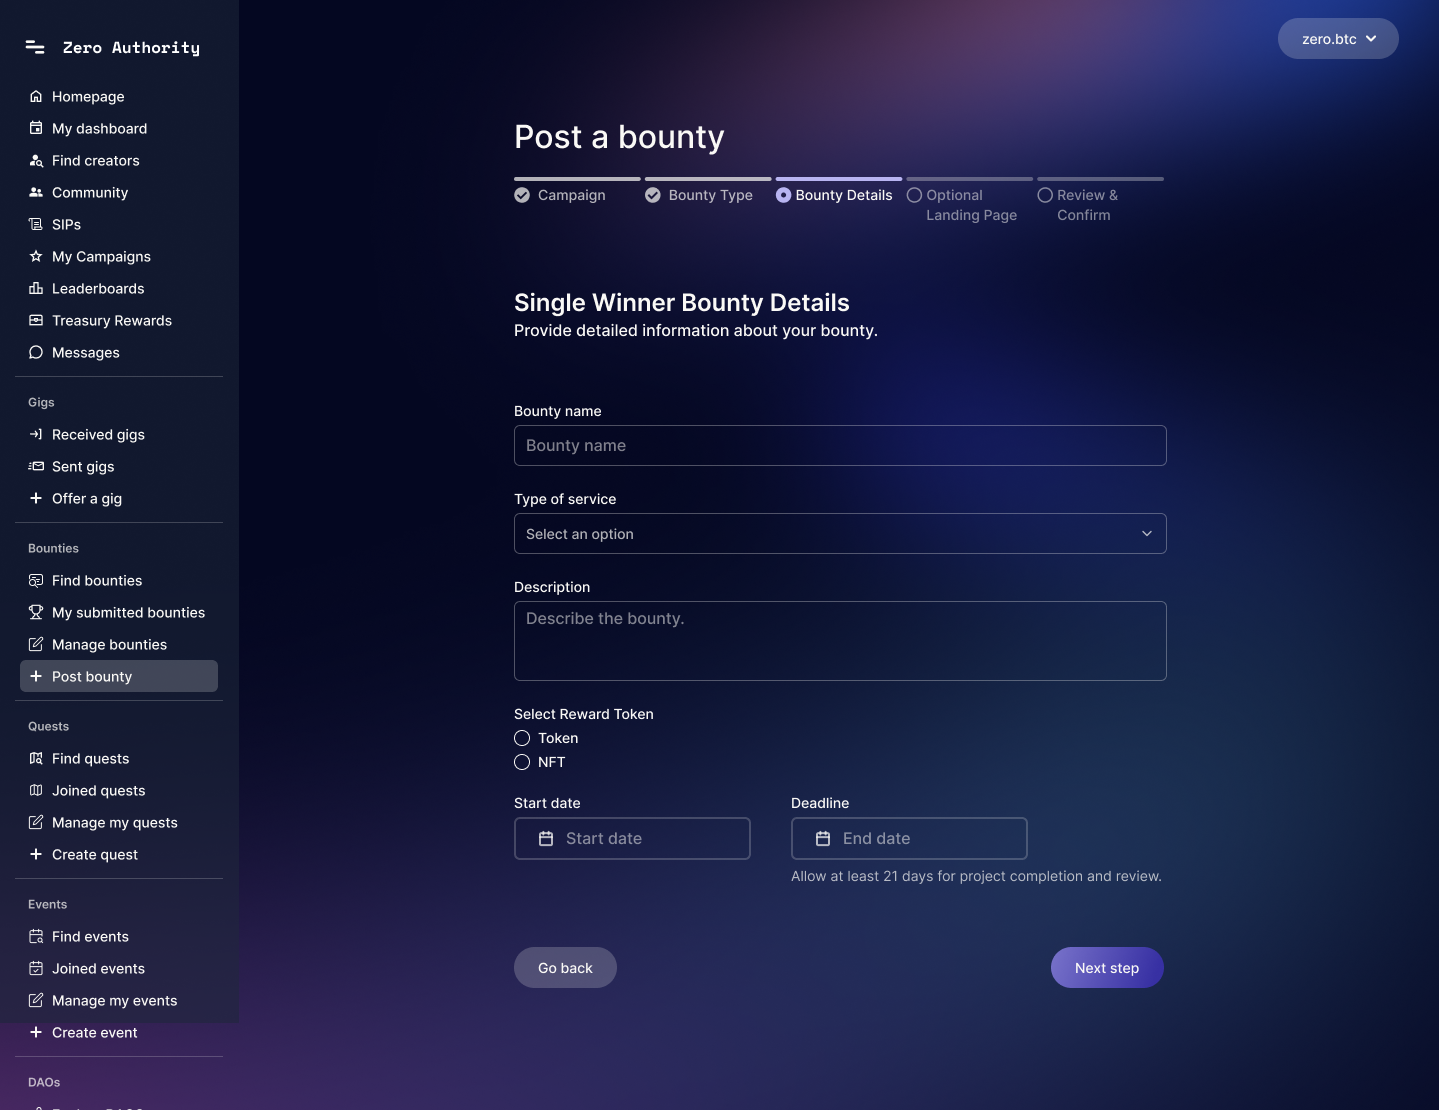
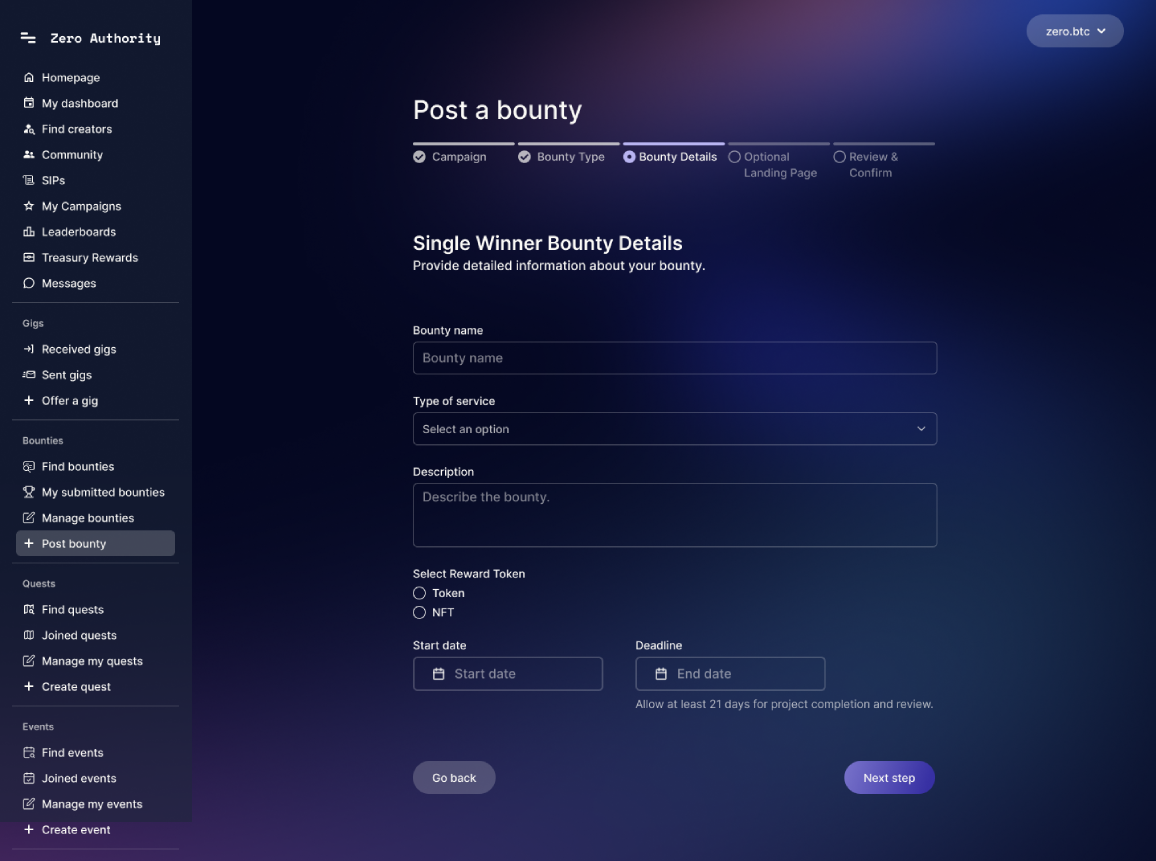
Case study updates

diff --git a/src/app/page.tsx b/src/app/page.tsx
@@ -37,7 +37,7 @@ export default function HomePage() {
     <main className="flex min-h-full flex-col bg-[var(--color-bg)]">
       {/* Hero */}
       <FadeIn>
-        <section className="mx-auto flex w-full max-w-7xl flex-col px-6 pt-[120px] pb-[60px] md:flex-row md:items-center md:justify-between md:gap-12 md:px-12 md:pt-[150px] md:pb-[100px] lg:px-20 lg:pt-[180px] lg:pb-[120px]">
+        <section className="mx-auto flex w-full max-w-7xl flex-col px-6 pt-[120px] pb-[60px] md:flex-row md:items-center md:justify-between md:gap-12 md:px-12 md:pt-[150px] md:pb-[100px] lg:px-20 lg:pt-[200px] lg:pb-[140px]">
           <div className="flex flex-col gap-5 md:gap-6">
             <Image
               src="/images/selfie.jpeg"
@@ -84,7 +84,7 @@ export default function HomePage() {
 
       {/* Selected Work — Thumbnail Grid */}
       <div className="bg-white">
-      <section id="work" className="mx-auto w-full max-w-7xl px-6 py-[50px] md:px-12 md:py-[80px] lg:px-20 lg:py-[100px]">
+      <section id="work" className="mx-auto w-full max-w-7xl px-6 py-[50px] md:px-12 md:py-[90px] lg:px-20 lg:py-[160px]">
         <FadeIn>
           <h2 className="font-heading mb-8 text-[28px] font-semibold text-[var(--color-text)] md:mb-12 md:text-[34px] lg:text-[40px] text-center md:text-left">
             Selected Work
@@ -104,7 +104,7 @@ export default function HomePage() {
               />
             ))}
           </div>
-          <div className="mt-8 text-center md:text-left">
+          <div className="mt-12 text-center md:text-left">
             <Link
               href="/work"
               className="font-body text-[15px] font-medium text-[var(--color-link)] hover:underline text-center md:text-left"
@@ -116,58 +116,21 @@ export default function HomePage() {
       </section>
       </div>
 
-      {/* Testimonials */}
-      <section id="testimonials" className="mx-auto flex w-full max-w-7xl flex-col gap-8 px-6 py-[50px] md:gap-12 md:px-12 md:py-[60px] lg:px-20 lg:py-[80px]">
-        <FadeIn>
-          <h2 className="font-heading text-[28px] font-semibold text-[var(--color-text)] md:text-[34px] lg:text-[40px]">
-            Testimonials
-          </h2>
-        </FadeIn>
-
-        <FadeIn>
-          <Testimonial
-            quote={`"Ayden Springer is the kind of Full Stack Developer every team dreams of having. His dedication to the craft and consistent success in delivering exceptional digital products makes him a valuable asset. I highly recommend Ayden Springer for any tech project."`}
-            name="Rocky Nguyen"
-            image={rockyImg}
-            link="https://www.linkedin.com/in/rockynhatnguyen/"
-            role="Engineering Manager at Elysium Health"
-          />
-        </FadeIn>
-        <FadeIn>
-          <Testimonial
-            quote={`"If you need a Dev who talks with their keyboard instead of prolonging the Zoom call, Ayden will kick out your project faster than 90% of the over-confident 'code crafters' out there. Ayden gets it DONE."`}
-            name="Michael Jagdeo"
-            image={michaelImg}
-            link="https://www.linkedin.com/in/jagdeoholdings/"
-            role="Recruiter at Delmi Training"
-          />
-        </FadeIn>
-        <FadeIn>
-          <Testimonial
-            quote={`"Ayden is an amazingly talented developer. His contribution to the project Avalanche from The New Dev Order was crucial to completing the most difficult task that saw the team home. He is gonna be the best find for any Hiring Manager."`}
-            name="Manish Andankar"
-            image={manishImg}
-            link="https://www.linkedin.com/in/manishandankar/"
-            role="Founder & CEO at Worthum"
-          />
-        </FadeIn>
-      </section>
-
       {/* Background */}
-      <div className="bg-white">
+      <div>
       <FadeIn>
-        <section id="background" className="mx-auto flex w-full max-w-7xl flex-col gap-8 px-6 py-[50px] md:gap-10 md:px-12 md:py-[60px] lg:px-20 lg:py-[80px]">
+        <section id="background" className="mx-auto flex w-full max-w-7xl flex-col gap-10 px-6 py-[50px] md:gap-16 md:px-12 md:py-[60px] lg:px-20 lg:py-[80px]">
           <h2 className="font-heading text-[28px] font-semibold text-[var(--color-text)] md:text-[34px] lg:text-[40px]">
             Background
           </h2>
 
-          <div className="flex max-w-[800px] flex-col gap-20 mt-12">
+          <div className="flex max-w-[800px] flex-col gap-20">
             <div className="flex flex-col gap-4">
               <h3 className="font-heading text-[22px] font-semibold text-[var(--color-text)]">
                 Everplast
               </h3>
               <p className="font-body text-[16px] leading-[1.7] text-[var(--color-text)]">
-                I started building software in high school, teaching myself GDScript and the Godot engine to build Everplast: <Highlight>a full-length action-adventure game that I shipped to Steam at 16 years old</Highlight>. Eight months of solo development: four worlds, five weapons, boss AI, a rank-based progression system, a full save system, and the entire Steam publishing pipeline. <Highlight>So what happens when you scope a project way too big and have to figure out how to ship it anyway.</Highlight>
+                I started building software in high school, teaching myself GDScript and the Godot engine to build Everplast: <Highlight>a full-length action-adventure game that I shipped to Steam at 16 years old</Highlight>. Eight months of solo development: four worlds, five weapons, boss AI, a rank-based progression system, a full save system, and the entire Steam publishing pipeline. <Highlight>So, what happens when you scope a project way too big and have to figure out how to ship it anyway?</Highlight>
               </p>
 
               <p className="font-body text-[16px] leading-[1.7] text-[var(--color-text)]">
@@ -221,6 +184,48 @@ export default function HomePage() {
         </section>
       </FadeIn>
       </div>
+
+      {/* Testimonials */}
+      <div className="bg-white ">
+      <section id="testimonials" className="mx-auto flex w-full max-w-7xl flex-col gap-8 px-6 py-[50px] md:gap-12 md:px-12 md:py-[60px] lg:px-20 lg:py-[90px]">
+        <FadeIn>
+          <h2 className="font-heading text-[28px] font-semibold text-[var(--color-text)] md:text-[34px] lg:text-[40px]">
+            Testimonials
+          </h2>
+        </FadeIn>
+
+        <FadeIn>
+          <Testimonial
+            quote={`"Ayden Springer is the kind of Full Stack Developer every team dreams of having. His dedication to the craft and consistent success in delivering exceptional digital products makes him a valuable asset. I highly recommend Ayden Springer for any tech project."`}
+            name="Rocky Nguyen"
+            image={rockyImg}
+            link="https://www.linkedin.com/in/rockynhatnguyen/"
+            role="Engineering Manager at Elysium Health"
+          />
+        </FadeIn>
+        <FadeIn>
+          <Testimonial
+            quote={`"If you need a Dev who talks with their keyboard instead of prolonging the Zoom call, Ayden will kick out your project faster than 90% of the over-confident 'code crafters' out there. Ayden gets it DONE."`}
+            name="Michael Jagdeo"
+            image={michaelImg}
+            link="https://www.linkedin.com/in/jagdeoholdings/"
+            role="Recruiter at Delmi Training"
+          />
+        </FadeIn>
+        <FadeIn>
+          <Testimonial
+            quote={`"Ayden is an amazingly talented developer. His contribution to the project Avalanche from The New Dev Order was crucial to completing the most difficult task that saw the team home. He is gonna be the best find for any Hiring Manager."`}
+            name="Manish Andankar"
+            image={manishImg}
+            link="https://www.linkedin.com/in/manishandankar/"
+            role="Founder & CEO at Worthum"
+          />
+        </FadeIn>
+      </section>
+      </div>
+
+
+
     </main>
   )
 }

diff --git a/src/components/ContactFooter.tsx b/src/components/ContactFooter.tsx
@@ -1,4 +1,4 @@
-import { ArrowUpRightFromSquareIcon } from "lucide-react"
+import { ArrowUpRightFromSquareIcon, FileIcon, GithubIcon, LinkedinIcon, MailIcon } from "lucide-react"
 import Link from "next/link"
 
 export function ContactFooter() {
@@ -10,8 +10,9 @@ export function ContactFooter() {
       <div className="font-body flex flex-col gap-4">
         <a
           href="mailto:23aspringer3@gmail.com"
-          className="text-[16px] text-[var(--color-link)] hover:underline"
+          className="text-[16px] text-[var(--color-link)] hover:underline flex items-center gap-2"
         >
+          <MailIcon size={16} />
           23aspringer3@gmail.com
         </a>
         <Link
@@ -20,6 +21,7 @@ export function ContactFooter() {
           rel="noopener noreferrer"
           className="text-[16px] text-[var(--color-link)] hover:underline flex items-center gap-2"
         >
+          <GithubIcon size={16} />
           github.com/aydendevnova <ArrowUpRightFromSquareIcon size={14} />
         </Link>
         <Link
@@ -28,6 +30,7 @@ export function ContactFooter() {
           rel="noopener noreferrer"
           className="text-[16px] text-[var(--color-link)] hover:underline flex items-center gap-2"
         >
+          <LinkedinIcon size={16} />
           linkedin.com/in/ayden-springer <ArrowUpRightFromSquareIcon size={14} />
         </Link>
         <Link
@@ -36,6 +39,7 @@ export function ContactFooter() {
           rel="noopener noreferrer"
           className="mt-4 flex items-center gap-2 text-[16px] font-medium text-[var(--color-link)] hover:underline"
         >
+          <FileIcon size={16} />
           View Resume <ArrowUpRightFromSquareIcon size={14} />
         </Link>
       </div>

diff --git a/src/components/mdx/ProjectImage.tsx b/src/components/mdx/ProjectImage.tsx
@@ -39,7 +39,7 @@ export function ProjectImage({
           </span>
         </div>
         {caption && (
-          <figcaption className="font-body mt-3 text-center text-sm text-[var(--color-muted)]">
+          <figcaption className="font-body mt-3 text-left text-sm text-[var(--color-muted)]">
             {caption}
           </figcaption>
         )}
@@ -57,12 +57,12 @@ export function ProjectImage({
           alt={alt}
           width={width}
           height={height}
-          className={`h-auto w-full in-[.image-grid-uniform]:absolute in-[.image-grid-uniform]:inset-0 in-[.image-grid-uniform]:h-full in-[.image-grid-uniform]:object-cover${pixelClass}`}
+          className={`h-auto max-h-[500px] w-full object-contain object-left in-[.image-grid-uniform]:absolute in-[.image-grid-uniform]:inset-0 in-[.image-grid-uniform]:h-full in-[.image-grid-uniform]:object-cover in-[.image-grid-uniform]:object-center${pixelClass}`}
           unoptimized
         />
       </div>
       {caption && (
-        <figcaption className="font-body mt-3 text-center text-sm text-[var(--color-muted)]">
+        <figcaption className="font-body mt-3 text-left text-sm text-[var(--color-muted)]">
           {caption}
         </figcaption>
       )}

diff --git a/src/components/SiteNav.tsx b/src/components/SiteNav.tsx
@@ -14,8 +14,8 @@ export function SiteNav() {
   const isHome = pathname === "/"
 
   return (
-    <nav className="fixed top-0 left-0 z-50 flex w-full items-center justify-between px-6 py-5 md:px-12 lg:px-14">
-      <div className="rounded-full bg-[var(--color-bg)]/80 px-3 py-1 backdrop-blur-sm">
+    <nav className="fixed top-0 left-0 z-50 flex w-full items-center justify-between px-6 py-5 md:px-11 lg:px-11">
+      <div className="rounded-full bg-[var(--color-bg)]/80 px-5 py-1 backdrop-blur-sm">
         <Link
           href="/"
           className="font-heading text-[20px] font-semibold tracking-tight text-[var(--color-text)] hover:opacity-70 md:text-[22px]"
@@ -24,7 +24,7 @@ export function SiteNav() {
         </Link>
       </div>
 
-      <div className="flex items-center gap-6 rounded-full bg-[var(--color-bg)]/80 px-4 py-2 backdrop-blur-sm md:gap-8">
+      <div className="flex items-center gap-6 rounded-full bg-[var(--color-bg)]/80 px-5 py-2.5 backdrop-blur-sm md:gap-8">
         {NAV_LINKS.map((link) => {
           if (link.external) {
             return (

diff --git a/src/components/mdx/ProjectVideo.tsx b/src/components/mdx/ProjectVideo.tsx
@@ -82,7 +82,7 @@ export function ProjectVideo({
           </div>
         </div>
         {caption && (
-          <figcaption className="font-body mt-3 text-center text-sm text-[var(--color-muted)]">
+          <figcaption className="font-body mt-3 text-left text-sm text-[var(--color-muted)]">
             {caption}
           </figcaption>
         )}
@@ -116,7 +116,7 @@ export function ProjectVideo({
         )}
       </div>
       {caption && (
-        <figcaption className="font-body mt-3 text-center text-sm text-[var(--color-muted)]">
+        <figcaption className="font-body mt-3 text-left text-sm text-[var(--color-muted)]">
           {caption}
         </figcaption>
       )}
